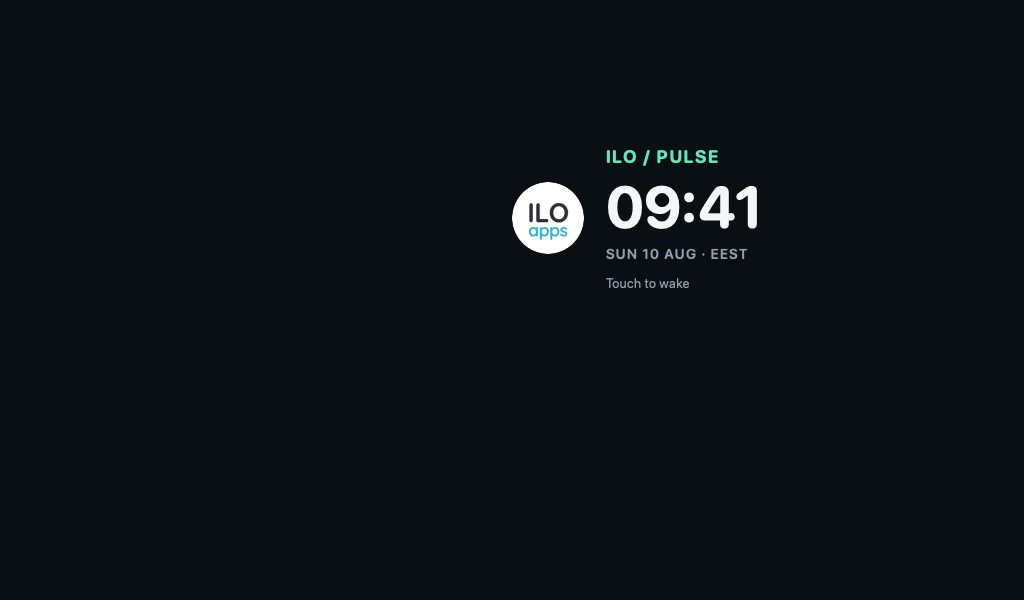
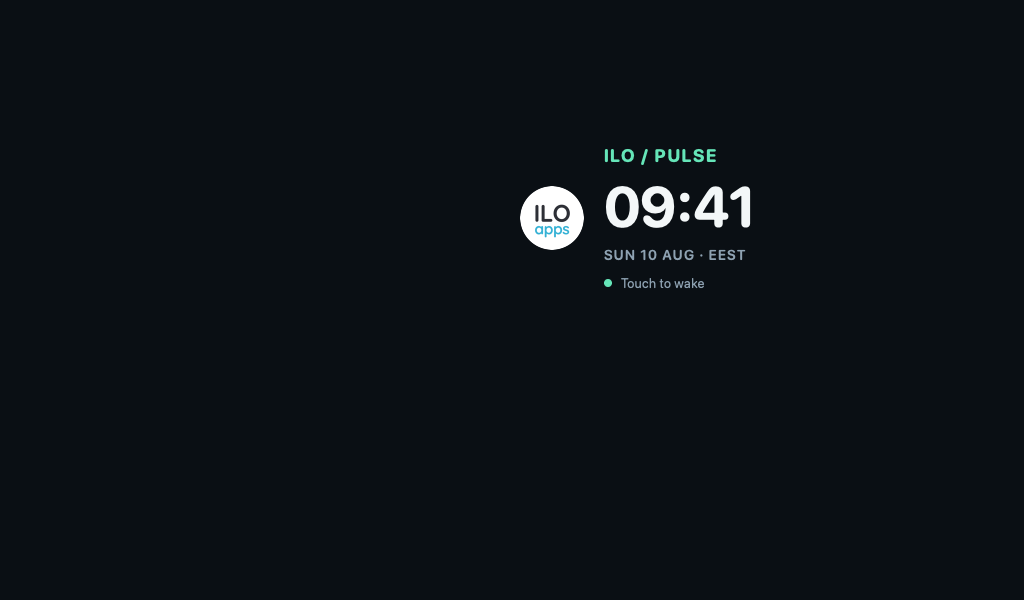
Align Pulse screensaver content

Changed region(s): [[0.5938, 0.3, 0.75, 0.48], [0.5, 0.3, 0.5625, 0.42], [0.5938, 0.24, 0.7188, 0.27]]

diff --git a/mac-service/Sources/BoardUIPrototype/Views/BoardValidationScenarioView.swift b/mac-service/Sources/BoardUIPrototype/Views/BoardValidationScenarioView.swift
@@ -317,28 +317,33 @@ struct BoardScreensaverValidationView: View {
     var body: some View {
         ZStack {
             BoardPalette.carbon
-            HStack(spacing: 22) {
+            HStack(spacing: 20) {
                 Image(nsImage: BrandAsset.image())
                     .resizable()
                     .scaledToFit()
-                    .frame(width: 72, height: 72)
+                    .frame(width: 64, height: 64)
                     .clipShape(Circle())
-                VStack(alignment: .leading, spacing: 5) {
+                VStack(alignment: .leading, spacing: 7) {
                     Text("ILO / PULSE")
                         .font(.board(18, weight: .bold))
                         .tracking(1.2)
                         .foregroundStyle(BoardPalette.signal)
                     Text("09:41")
-                        .font(.system(size: 58, weight: .bold, design: .rounded))
+                        .font(.system(size: 56, weight: .bold, design: .rounded))
                         .foregroundStyle(BoardPalette.mist)
                     Text("SUN 10 AUG · EEST")
                         .font(.board(14, weight: .semibold))
                         .tracking(0.8)
                         .foregroundStyle(BoardPalette.fog)
-                    Text("Touch to wake")
-                        .font(.board(13))
-                        .foregroundStyle(BoardPalette.fog)
-                        .padding(.top, 8)
+                    HStack(spacing: 9) {
+                        Circle()
+                            .fill(BoardPalette.signal)
+                            .frame(width: 8, height: 8)
+                        Text("Touch to wake")
+                            .font(.board(13))
+                            .foregroundStyle(BoardPalette.fog)
+                    }
+                    .padding(.top, 5)
                 }
             }
             .offset(x: 126, y: -82)

diff --git a/firmware/components/ui/dashboard_ui.c b/firmware/components/ui/dashboard_ui.c
@@ -1511,25 +1511,25 @@ static void build_screensaver(lv_obj_t *screen)
     screensaver_content = lv_obj_create(screensaver);
     lv_obj_set_style_bg_opa(screensaver_content, LV_OPA_TRANSP, 0);
     lv_obj_set_style_border_width(screensaver_content, 0, 0);
-    lv_obj_set_size(screensaver_content, 460, 190);
+    lv_obj_set_size(screensaver_content, 420, 172);
     lv_obj_clear_flag(screensaver_content, LV_OBJ_FLAG_SCROLLABLE | LV_OBJ_FLAG_CLICKABLE);
     lv_obj_center(screensaver_content);
 
     lv_obj_t *icon = lv_image_create(screensaver_content);
     lv_image_set_src(icon, &ilo_icon_48);
-    lv_obj_align(icon, LV_ALIGN_CENTER, -180, -42);
+    lv_obj_align(icon, LV_ALIGN_LEFT_MID, 16, 0);
     lv_obj_t *pulse = create_label(screensaver_content, "ILO / PULSE", &lv_font_montserrat_20, COLOR_SIGNAL);
-    lv_obj_align(pulse, LV_ALIGN_CENTER, -70, -54);
+    lv_obj_align(pulse, LV_ALIGN_TOP_LEFT, 92, 7);
     screensaver_clock_label = create_label(screensaver_content, "--:--", &lv_font_montserrat_28, COLOR_MIST);
-    lv_obj_align(screensaver_clock_label, LV_ALIGN_CENTER, 62, -4);
+    lv_obj_align(screensaver_clock_label, LV_ALIGN_TOP_LEFT, 92, 38);
     screensaver_date_label = create_label(screensaver_content, "TIME SYNC NEEDED", &lv_font_montserrat_14, COLOR_FOG);
-    lv_obj_align(screensaver_date_label, LV_ALIGN_CENTER, 62, 36);
+    lv_obj_align(screensaver_date_label, LV_ALIGN_TOP_LEFT, 92, 82);
     lv_obj_t *wake = create_label(screensaver_content, "Touch to wake", &lv_font_montserrat_14, COLOR_FOG);
-    lv_obj_align(wake, LV_ALIGN_CENTER, 62, 72);
+    lv_obj_align(wake, LV_ALIGN_LEFT_MID, 112, 48);
     screensaver_status_dot = lv_obj_create(screensaver_content);
     set_clean_box(screensaver_status_dot, COLOR_FOG, LV_RADIUS_CIRCLE);
     lv_obj_set_size(screensaver_status_dot, 10, 10);
-    lv_obj_align(screensaver_status_dot, LV_ALIGN_CENTER, -84, 72);
+    lv_obj_align(screensaver_status_dot, LV_ALIGN_LEFT_MID, 92, 48);
 
     lv_timer_create(screensaver_timer, 1000, NULL);
     refresh_clock_labels();
